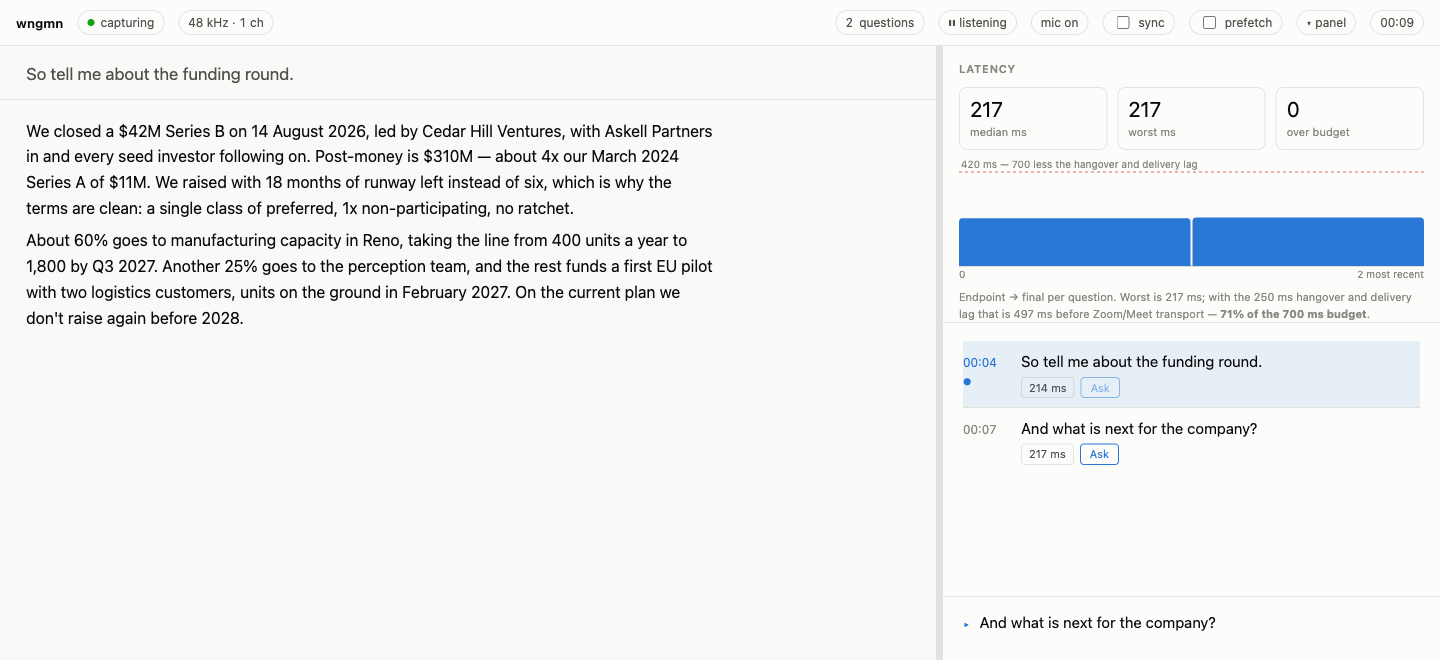
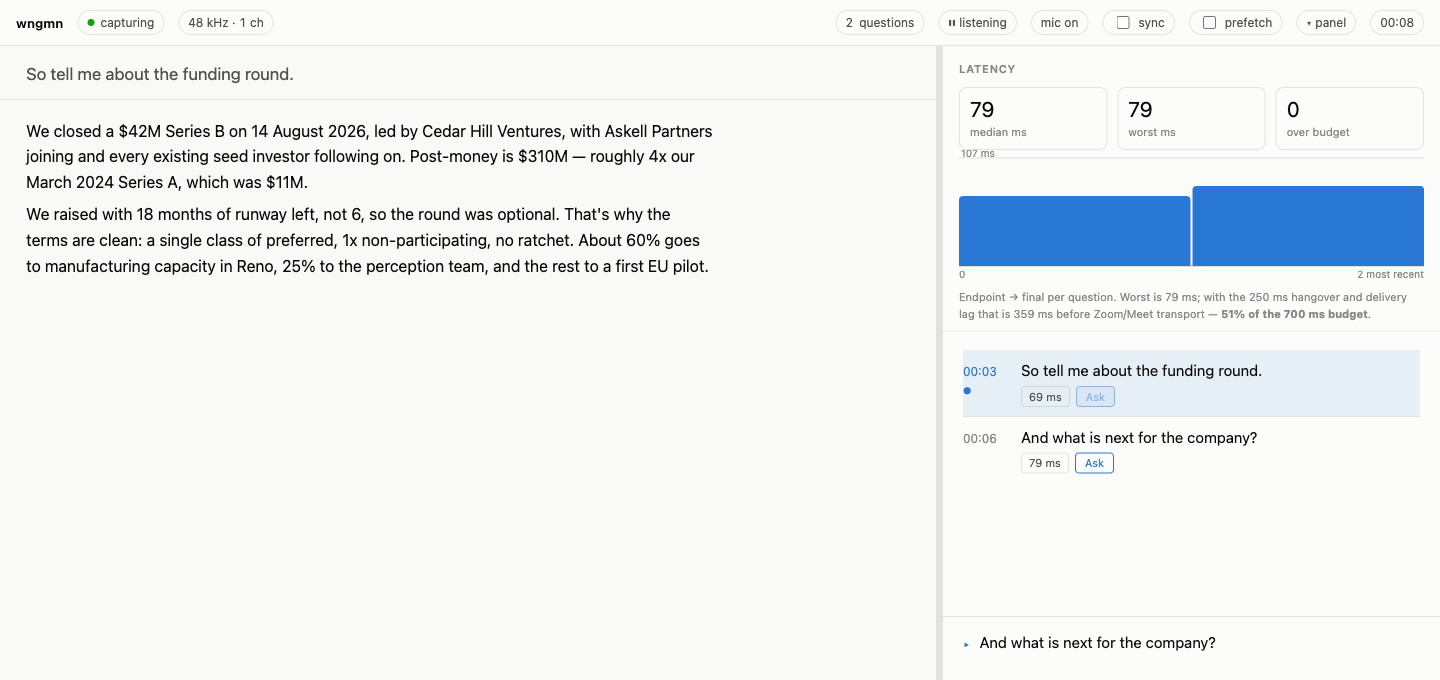
Document bringing your own key, and show Ask working instead of describing it
Ask is the only feature that touches a network and the README gave it one
clause: "No credentials, except for the Ask button." Nothing about where a key
goes, which of the three sources wins, what a single ask actually sends, or why
effort defaults to low. There is now a section on it, with the resolution order
as it is implemented — ANTHROPIC_API_KEY, then ANTHROPIC_AUTH_TOKEN, then the
profile `ant auth login` writes — and the startup warning quoted from a real run
with the environment stripped, so someone can recognise it before a call rather
than during one.

Two recordings, both from real runs rather than mockups:

  cli.gif   partials building word by word, then a question event at 57 ms.
            VHS, tape checked in at docs/tapes/cli.tape.
  ask.gif   pressing Ask and the answer streaming into the page, grounded in
            the example profile. A Playwright screenshot loop, since VHS
            records terminals and this is a browser.

Both replay at --speed 1. The earlier still was captured at --speed 0.1, which
inflated its latency to 217 ms and needed a caption explaining that the headline
number in the image was not one the tool produces. page.png is now the last
frame of the ask.gif run, so the still and the animation agree and both show
measured numbers: 69 ms and 79 ms.

docs/tapes/README.md records how each asset is regenerated, including the two
viewport constraints that are not guessable (below ~1400 wide the latency
[…]

diff --git a/README.md b/README.md
@@ -8,8 +8,7 @@ itself instead of waiting on the Speech framework. Audio never leaves your machi
 
 ![The wngmn page: an answer on the left, latency and the question list on the right](docs/images/page.png)
 
-<sub>An offline replay of a test fixture. The latency shown is inflated by the slowed
-playback; on a real call it lands in the 67–121 ms range.</sub>
+<sub>Replaying a recorded fixture at real speed. The latency shown is measured, not illustrative.</sub>
 
 ## Requirements
 
@@ -217,6 +216,72 @@ file is re-read when it changes on disk, so you can edit it mid-call.
 `--profile` supersedes `--notes` rather than combining with it. Passing both currently reads
 the profile only, without a warning.
 
+## Answers: bring your own key
+
+![Pressing Ask on a question and the answer streaming into the page](docs/images/ask.gif)
+
+<sub>Real speed, real API call. The two questions endpoint at 69 ms and 79 ms; the answer is
+built from the shipped example profile.</sub>
+
+Capture, transcription and endpointing are entirely local and need no account. **Ask is the
+only feature that talks to a network**, and it is off until you press the button.
+
+Set a key and it works. wngmn checks three sources, in this order, and stops at the first:
+
+| | |
+| --- | --- |
+| `ANTHROPIC_API_KEY` | a standard API key. Sent as `x-api-key`. |
+| `ANTHROPIC_AUTH_TOKEN` | an OAuth access token. Sent as a bearer token. |
+| `ant auth login` | the profile written by the Claude CLI, read by shelling out to it. This is how a Claude subscription is reached rather than pay-as-you-go billing. |
+
+```sh
+# Get a key from https://console.anthropic.com/settings/keys
+echo 'export ANTHROPIC_API_KEY=sk-ant-...' >> ~/.zshrc
+exec zsh
+```
+
+An exported-but-empty variable counts as absent, not as a bad key, because a half-written
+shell profile is the usual cause and a 401 is a much worse error message than "no credentials".
+
+You do not have to wait until the call to find out. With `--serve`, a run with no usable
+credential says so at startup:
+
+```
+wngmn: no Anthropic credentials, so Ask will fail on every question.
+wngmn: set ANTHROPIC_API_KEY, or run `ant auth login`, before the call.
+```
+
+### Choosing the model
+
+```sh
+wngmn --serve --ask-model claude-opus-5 --ask-effort low
+```
+
+Effort takes `low`, `medium`, `high`, `xhigh` or `max`, and defaults to **low** on purpose: on
+a live call the answer is useless if it arrives after you needed it, so latency is the binding
+constraint rather than depth. Raise it when rehearsing, not mid-interview.
+
+### What a single Ask sends
+
+The question, up to six preceding questions, and your profile go to
+`https://api.anthropic.com/v1/messages`. The answer streams back token by token, so the page
+fills in as it is generated rather than after it finishes.
+
+Your profile is identical on every ask in a session and the question is not, so the profile is
+sent behind a cache breakpoint. The first ask pays for it; later ones read it from cache. This
+is why a long `## Context` costs far less than its size suggests, and why being generous with
+it is the right instinct.
+
+### Cost, and the one switch that changes it
+
+One Ask is one API call. The **prefetch** toggle in the page header changes the economics
+completely: it answers every caller question the moment it lands, including every question you
+would never have pressed the button for. It exists because it moves the round trip behind your
+decision to press rather than in front of it, making Ask feel instant. It is off by default
+because most questions in a call do not need an answer, and you pay for all of them.
+
+Questions from your own microphone are never prefetched, so `--mic` does not double the bill.
+
 ## The page
 
 Embedded in the binary, fetches nothing, works offline. It is what you look at for the whole call.
@@ -259,6 +324,11 @@ imply `--serve`; `--mic-device` implies `--mic`. `--profile` supersedes `--notes
 ## Output
 
 JSON Lines on stdout, one object per line. Diagnostics go to stderr, so a pipe stays clean.
+
+![Partials building word by word, then an endpointed question with its latency](docs/images/cli.gif)
+
+<sub>`wngmn offline … --speed 1 | jq -c .` — partials stream as the recogniser works, then one
+`question` event lands with its measured endpoint-to-final latency.</sub>
 
 ```json
 {"type":"question","text":"So tell me about the funding round.","t0":10.88,"t1":13.02,"ms":74}

diff --git a/docs/tapes/README.md b/docs/tapes/README.md
@@ -1,0 +1,91 @@
+# Regenerating the README media
+
+Three assets, all captured from real runs against the recorded fixture in
+`Tests/WngmnAudioTests/Fixtures/two-questions.wav`. Nothing here is mocked or hand-drawn, so
+the numbers on screen are measurements and will differ slightly run to run.
+
+All three need `wngmn` on PATH and the en-US speech model installed.
+
+## `docs/images/cli.gif` — the JSON Lines stream
+
+```sh
+vhs docs/tapes/cli.tape
+```
+
+Needs [VHS](https://github.com/charmbracelet/vhs) and `jq`. The tape replays at `--speed 1`,
+so the recording takes as long as the audio does and the latency in it is real. Playing it
+faster would finish sooner and report numbers that no live call would produce.
+
+## `docs/images/ask.gif` and `docs/images/page.png` — the served page
+
+These come from one capture, so the still and the animation agree with each other.
+
+Not a VHS tape: VHS records a terminal, and this is a browser. It is a Playwright screenshot
+loop instead, driven against a live server.
+
+**1.** Pad the fixture with silence, so the server outlives the capture. The clip is 6.7s and
+the recording needs about 30s plus the round trip to the Claude API:
+
+```sh
+python3 - <<'PY'
+import wave
+w = wave.open("Tests/WngmnAudioTests/Fixtures/two-questions.wav")
+p = w.getparams(); frames = w.readframes(w.getnframes()); w.close()
+unit = p.framerate * p.sampwidth * p.nchannels
+out = wave.open("/tmp/demo.wav", "wb"); out.setparams(p)
+out.writeframes(b"\x00" * unit * 3 + frames + b"\x00" * unit * 300)
+out.close()
+PY
+```
+
+**2.** Serve it at real speed, with the example profile so Ask has something to answer from.
+This spends one real API call, so `ANTHROPIC_API_KEY` must be set:
+
+```sh
+wngmn offline /tmp/demo.wav --serve --no-log --speed 1 \
+    --profile profiles/example-interview.md
+```
+
+**3.** Drive the page and write one PNG every 250 ms into `/tmp/frames`. Viewport 1440x680:
+narrower than about 1400 and the latency caption wraps to two lines, shorter than about 660
+and the panel's warnings row falls below the fold.
+
+```js
+await page.setViewportSize({ width: 1440, height: 680 });
+await page.goto("http://127.0.0.1:7373/");
+await page.waitForSelector("button.ask", { timeout: 90000 });
+
+let n = 0, clicked = false;
+const started = Date.now();
+while (Date.now() - started < 28000) {
+    await page.screenshot({ path: `/tmp/frames/f${String(n++).padStart(4, "0")}.png` });
+    const asks = await page.locator("button.ask").count();
+    if (!clicked && asks >= 2 && Date.now() - started > 2500) {
+        await page.locator("button.ask").first().click();
+        clicked = true;
+    }
+    await page.waitForTimeout(250);
+}
+```
+
+**4.** Assemble. Frames are 250 ms apart, so 4 fps is real time. The two-pass palette matters:
+the page is mostly flat greys and a single shared 256-colour palette bands the answer text
+badly.
+
+```sh
+ffmpeg -framerate 4 -i /tmp/frames/f%04d.png \
+    -vf "scale=1180:-1:flags=lanczos,palettegen=stats_mode=diff" -y /tmp/pal.png
+ffmpeg -framerate 4 -i /tmp/frames/f%04d.png -i /tmp/pal.png \
+    -lavfi "scale=1180:-1:flags=lanczos[x];[x][1:v]paletteuse=dither=bayer:bayer_scale=3" \
+    -y docs/images/ask.gif
+
+cp "$(ls /tmp/frames/*.png | tail -1)" docs/images/page.png
+```
+
+## What is deliberately not shown
+
+There is no recording of the two-speaker transcript, the one where lines are labelled Caller
+and You. `offline` never opens the microphone — it replays a file through the tap path only —
+so the "You" half cannot be produced from a fixture. Capturing it honestly needs a live call
+with headphones on, because on speakers the microphone hears the caller too and the same
+sentence is transcribed under both labels.
